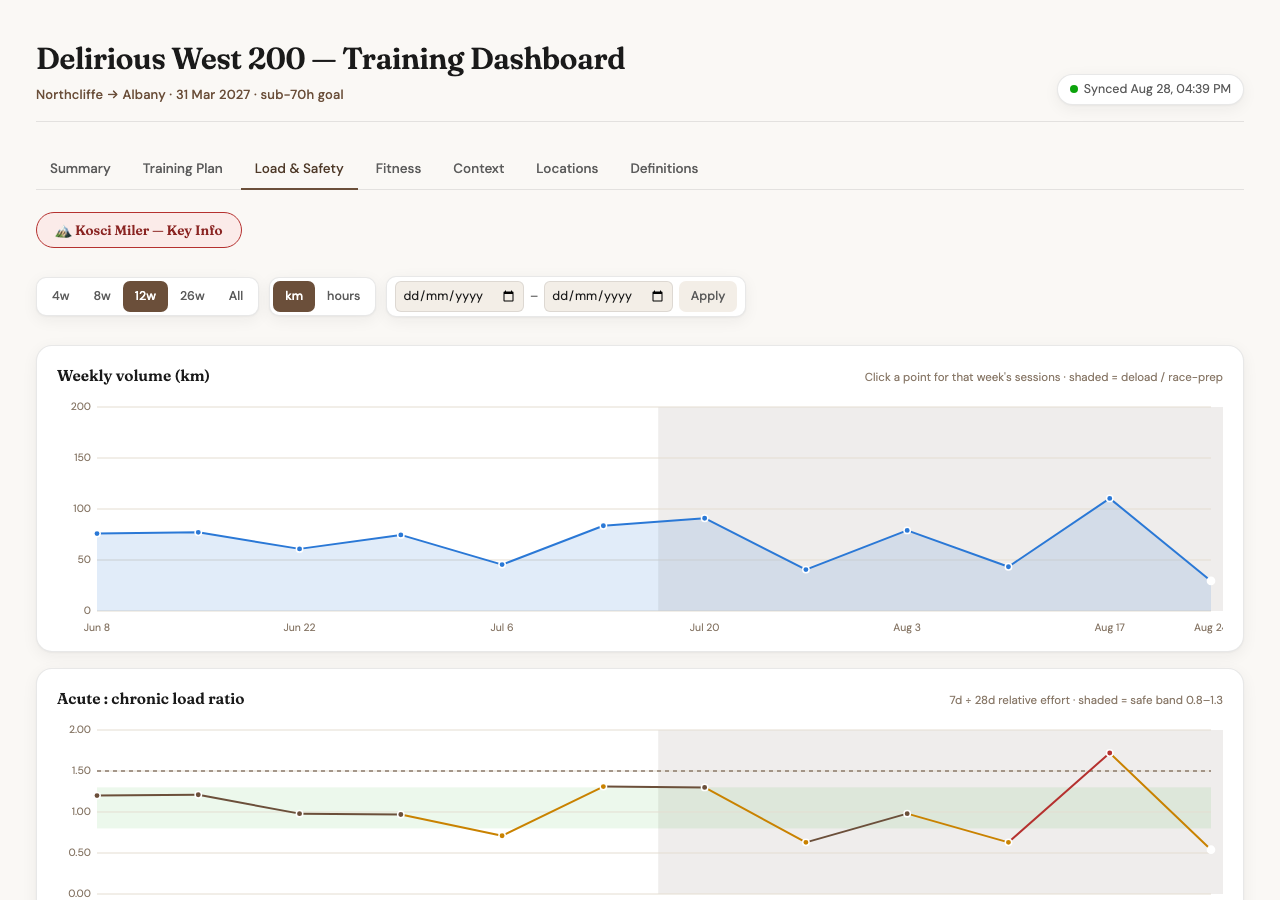
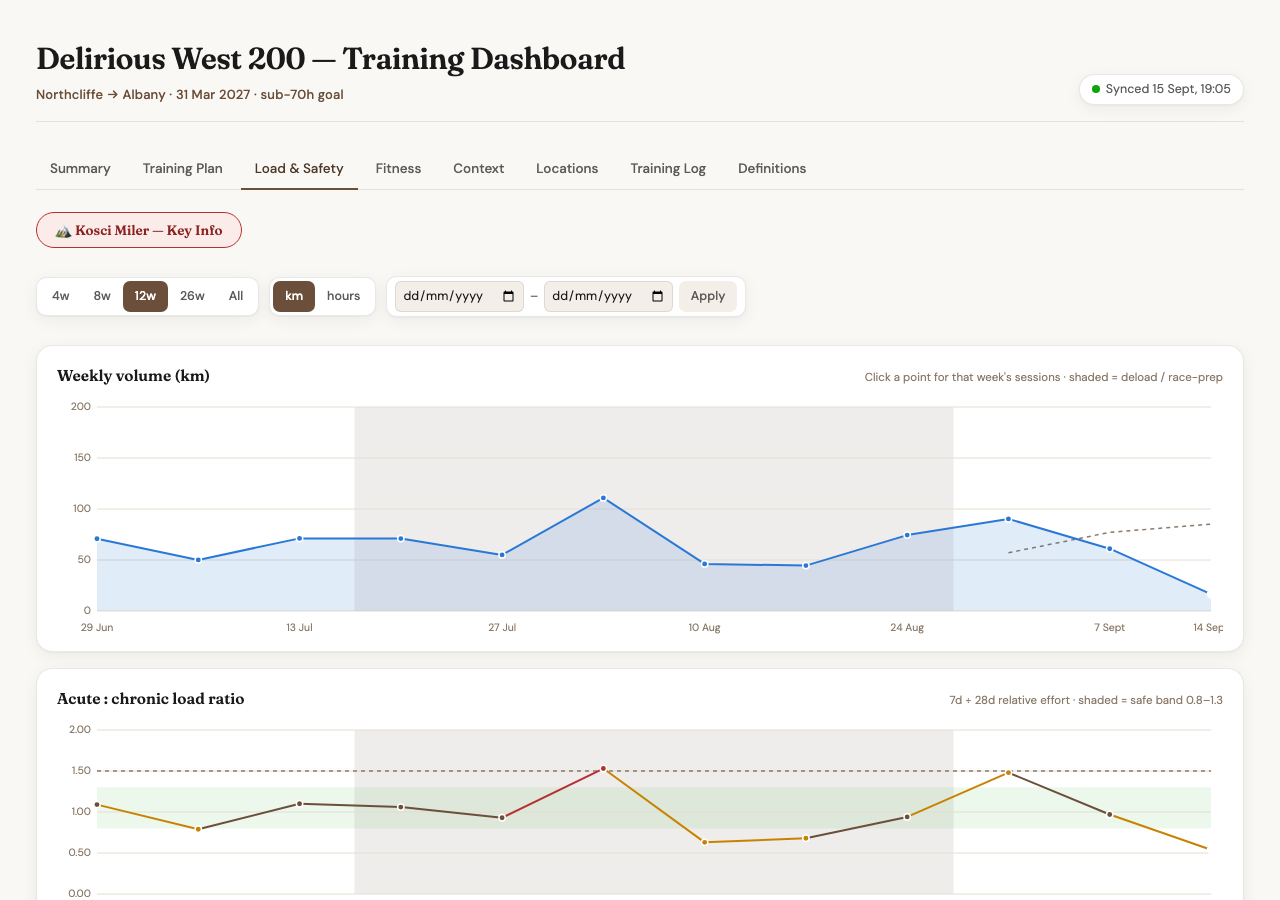
Docs: refresh screenshots and document the Kosci tab + race-week tagging
Screenshots were 3 weeks stale (only 2 of the dashboard's 9 tabs shown,
generated before the Coach's Note redesign, Training Log tab, and Kosci
Key Info tab existed). Refreshed summary and load-safety, added two new
screenshots (Kosci Key Info, Training Log).

Also added README sections for two features that shipped without docs:
the Kosci Miler tab as a worked example of a race-specific reference
page, and the race-week tagging mechanism now shared between primary
goal races and secondary tune-up races.

diff --git a/README.md b/README.md
@@ -12,6 +12,8 @@ race in March 2027.
 
 ![Dashboard — Summary tab](docs/images/summary.png)
 ![Dashboard — Load & Safety tab](docs/images/load-safety.png)
+![Dashboard — Kosci Miler Key Info tab](docs/images/kosci-key-info.png)
+![Dashboard — Training Log tab](docs/images/training-log.png)
 
 ## Why this exists
 
@@ -157,6 +159,14 @@ running this against your own Strava data, the dashboard will still show
 There's no separate "your data" vs "my config" split — it's one file,
 meant to be forked and rewritten for your own race.
 
+The same race-week mechanism that flags a primary goal race (a shaded
+band on the mileage chart, a row in the "Coming weeks" table) also
+covers secondary races squeezed into a build block — a speed-focused
+tune-up race, say, that isn't the main goal but still needs its week
+tagged and the mileage target curve adjusted around it. One config date
+constant reuses the whole existing rendering path; no separate UI
+concept needed.
+
 ## The Coach's Note isn't fully automatic — here's what it actually is
 
 The Summary tab's Coach's Note reads like it was written by someone reviewing
@@ -221,6 +231,26 @@ uses — only the review sentence is cached. And unlike the Coach's Note,
 **there's no algorithmic fallback here**: a week with no cached entry simply
 doesn't get a row. No "unreviewed" placeholder, nothing to fall back to —
 you just won't see that week until you've actually reviewed it.
+
+## The Kosci Miler tab is a worked example of a race-specific deep dive
+
+Most of the dashboard is generic — it'd work for any race, any sport. The
+**🏔 Kosci Miler — Key Info** tab is the opposite: a one-off reference page
+built from the actual race documents for one specific event I'm running
+(checkpoints and cutoffs, mandatory gear, drop-bag logistics, an elevation
+profile plotted from the real course GPX, a safety/emergency-contact
+section). It's static content, not computed from Strava data, and it's
+deliberately styled apart from the rest of the dashboard — its own nav
+row, race-branded accent colour — so it reads as "reference doc," not
+another metrics panel.
+
+It's left in as an example of the other kind of thing this approach is
+good for: once you've got a self-contained HTML dashboard and an LLM
+that can read a PDF runner's guide and a GPX file, building a tab like
+this for your own goal race is a small step, not a new project. The
+content itself won't mean anything if you're not running the Kosciuszko
+UTMB Miler — treat it as a template to gut and refill with your own
+race's key info, or delete the tab entirely if you don't want it.
 
 ## Data model
 
